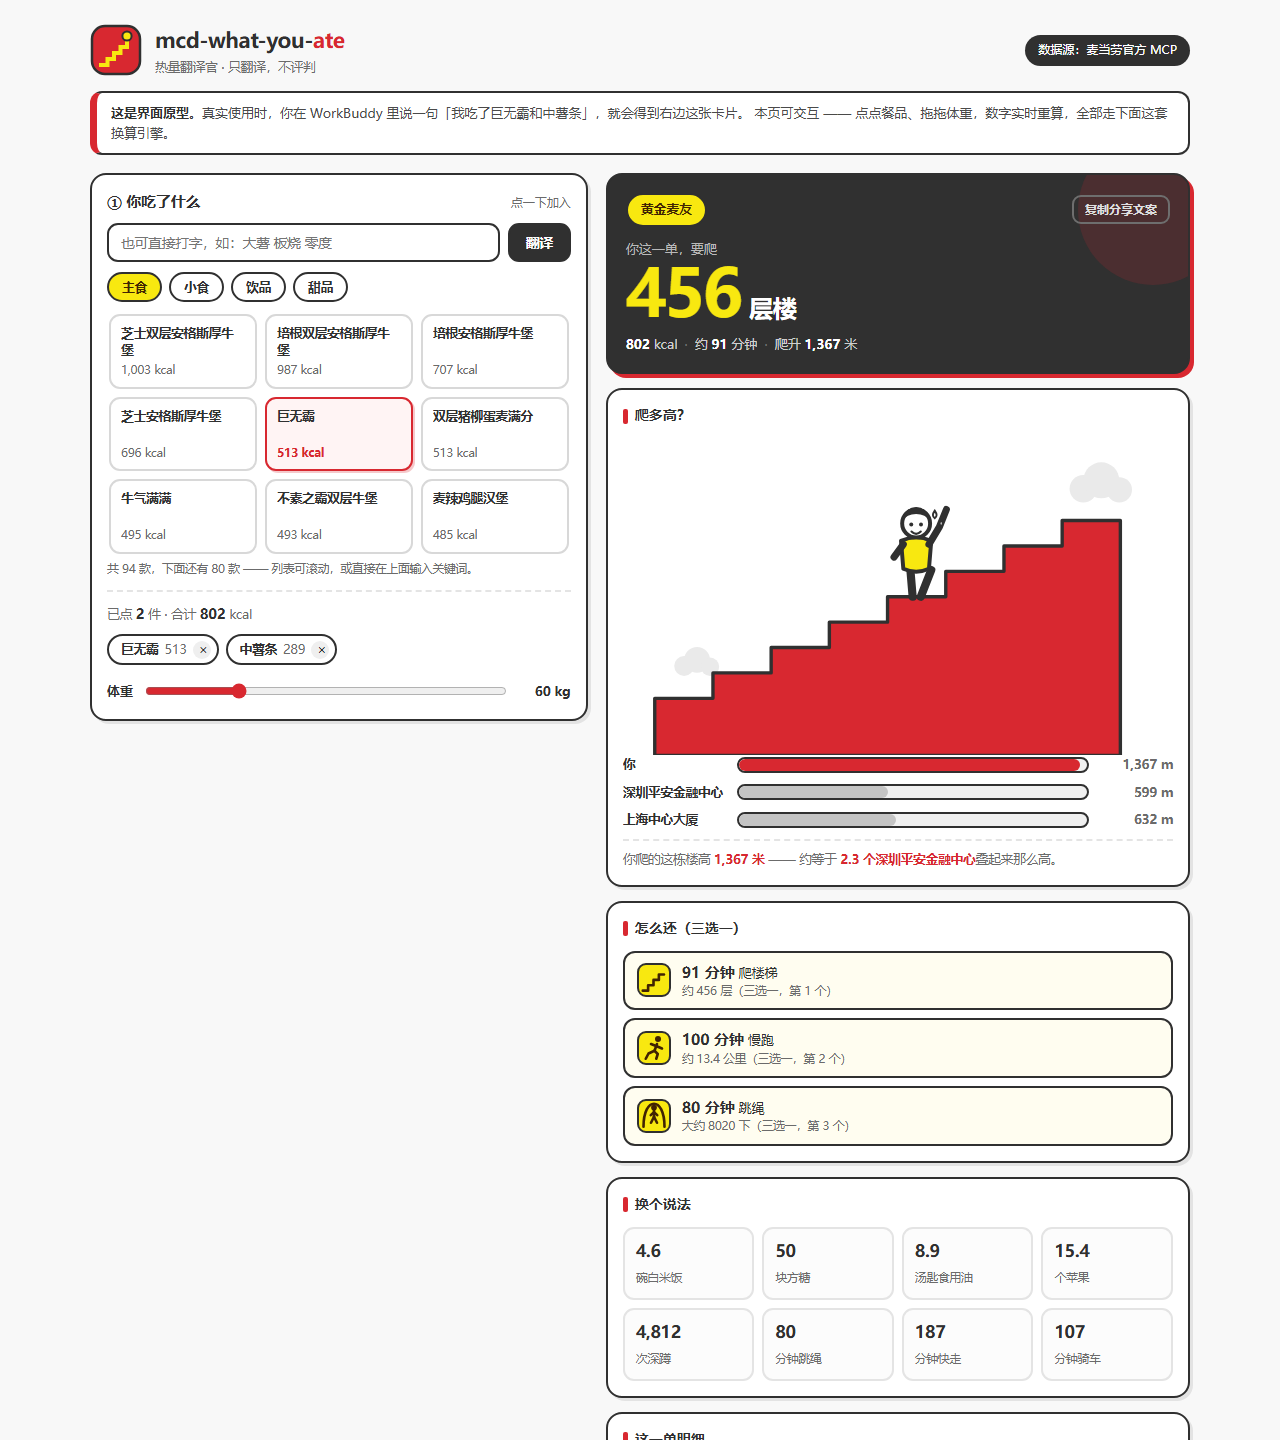
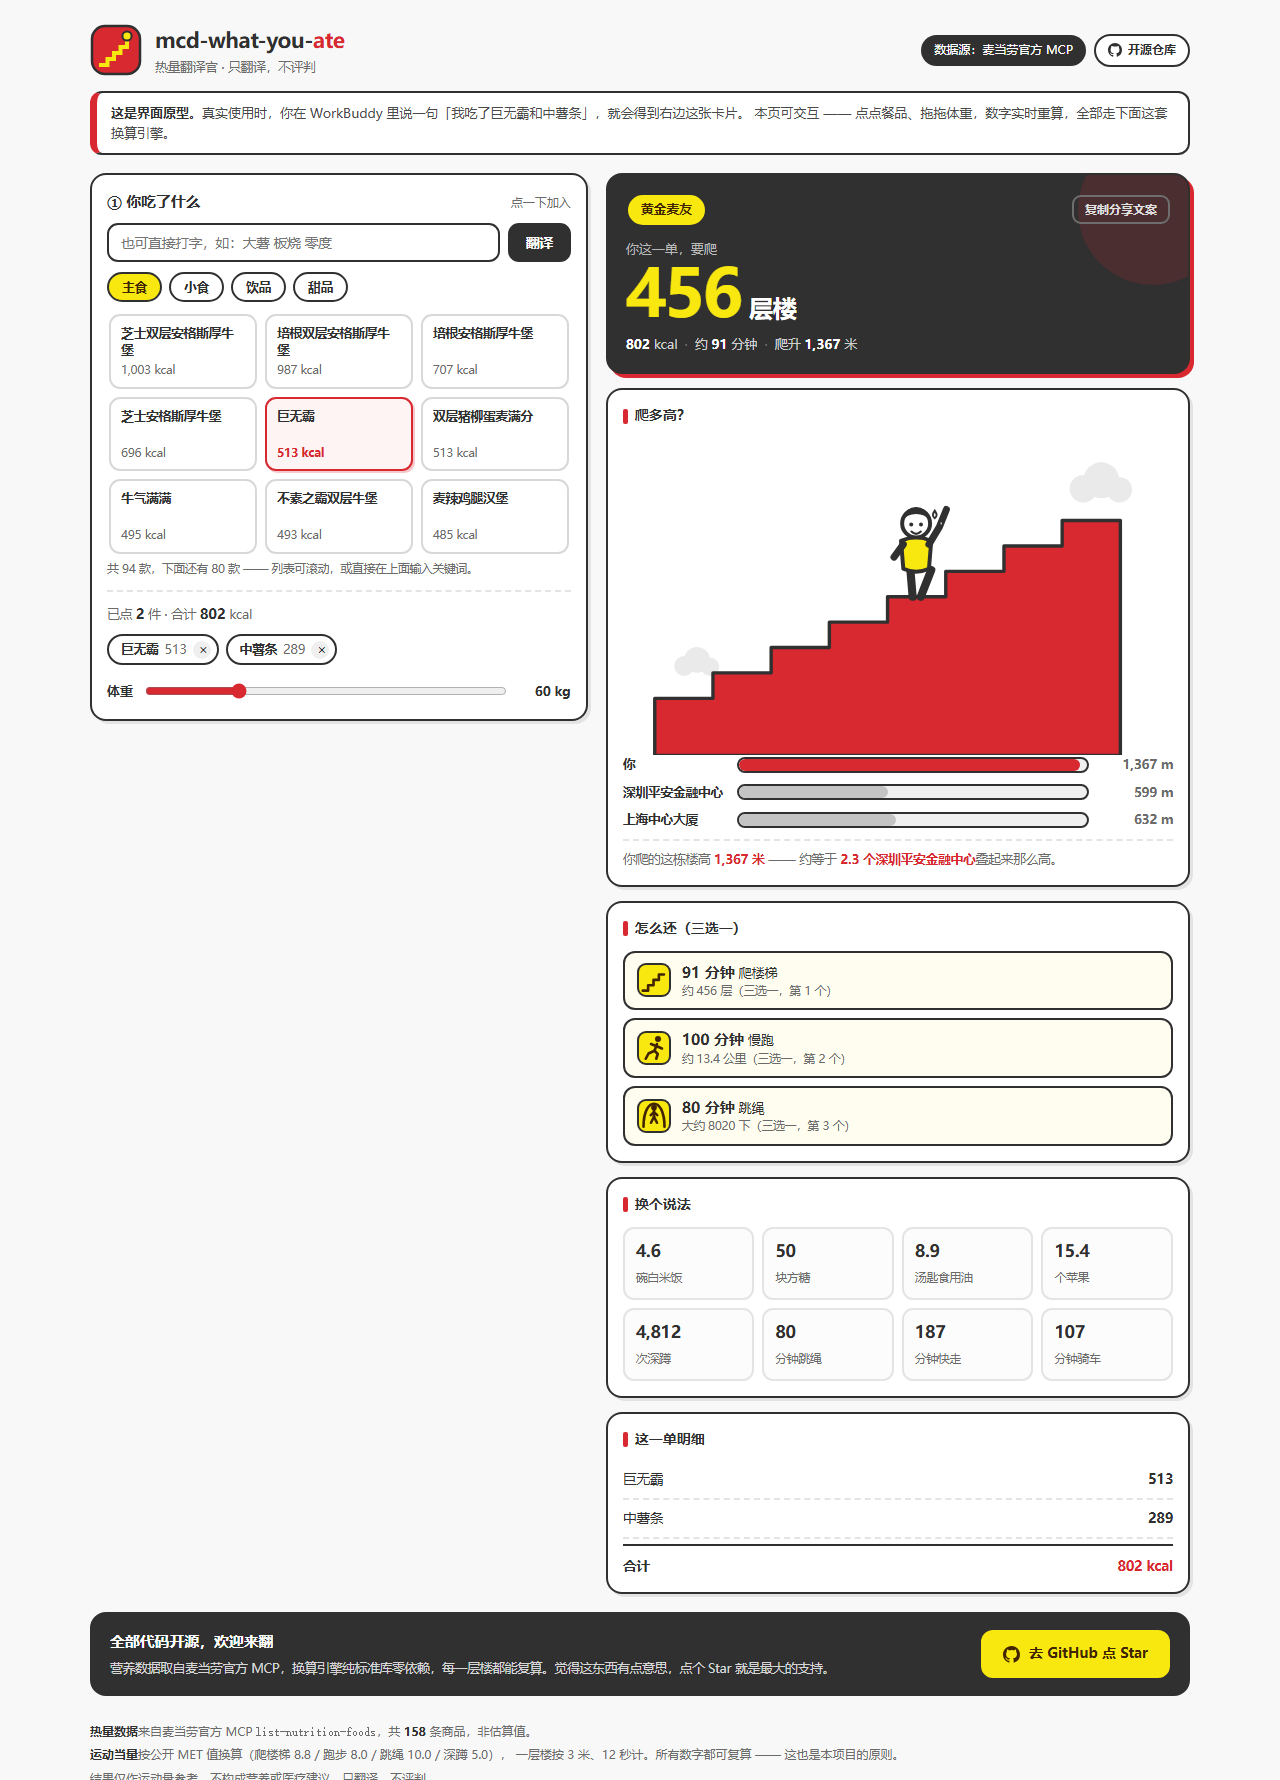
feat(demo): 补上转化出口 —— 页头仓库入口 + 底部 Star 引导
index.html 此前一个链接都没有：路人点开玩爽了，无处可去，既到不了
仓库也不知道项目是开源的 —— 转化链路是断的。对参赛作品来说，这是
"体验做到了、出口没做"的浪费。

- 页头右上新增「开源仓库」胶囊按钮（内联 SVG GitHub 图标）
- 底部新增 Star 引导区块（深墨黑底 + 亮黄按钮，黄底配 #412402 深褐字，
  对比度 16.5:1 —— 遵守本项目"品牌黄底绝不配白字"的约束）
- README 顶部与末尾各加 Star 引导
- 修正 README 3 处过期测试项数（24→28 跨语言、12→13 自检）。
  过程中差点把「5 项基准」推成「6 项」，核对 --doctor 实际输出后改回 ——
  文档数字必须跑命令核对，不能推算

验证：--doctor 13/13 · verify_demo.js 28/28 · CDP 交互 22/22 ·
375px 实测 cw=sw=375，新增 CTA 未撑破页面。
截图重出：desktop 1280×1780（含 CTA）/ mobile 375×900@2x。

Changed region(s): [[0.0625, 0.0, 0.9375, 1.0]]

diff --git a/index.html b/index.html
@@ -34,6 +34,34 @@ body{
 .hero h1 span{color:var(--red)}
 .hero .sub{margin:1px 0 0;font-size:12.5px;color:var(--muted)}
 .tagline{background:var(--ink);color:#fff;font-size:12px;padding:6px 13px;border-radius:999px;white-space:nowrap}
+.hero-r{display:flex;align-items:center;gap:8px;flex-wrap:wrap}
+.gh-link{
+  display:inline-flex;align-items:center;gap:6px;border:2px solid var(--ink);
+  border-radius:999px;padding:5px 12px;font-size:12px;font-weight:700;
+  color:var(--ink);background:#fff;text-decoration:none;white-space:nowrap;
+  transition:background .15s;
+}
+.gh-link:hover{background:var(--yellow)}
+.gh-link svg{display:block;flex:0 0 auto}
+
+/* ---------- 底部 Star 引导（转化出口） ---------- */
+.cta{
+  margin-top:18px;background:var(--ink);color:#fff;border:2px solid var(--ink);
+  border-radius:var(--r);padding:16px 18px;
+  display:flex;align-items:center;justify-content:space-between;gap:16px;flex-wrap:wrap;
+}
+.cta-txt{min-width:220px;flex:1}
+.cta-txt h2{margin:0 0 4px;font-size:15px;font-weight:800;letter-spacing:-.01em}
+.cta-txt p{margin:0;font-size:12.5px;color:#D6D6D6;line-height:1.6}
+.cta-btn{
+  display:inline-flex;align-items:center;gap:9px;flex:0 0 auto;
+  background:var(--yellow);color:var(--brown);border:2px solid var(--yellow);
+  border-radius:12px;padding:11px 20px;font-size:14px;font-weight:800;
+  text-decoration:none;white-space:nowrap;transition:transform .08s;
+}
+.cta-btn:hover{transform:translateY(-2px)}
+.cta-btn:active{transform:translateY(1px)}
+.cta-btn svg{display:block;flex:0 0 auto}
 .note{
   background:#fff;border:2px solid var(--ink);border-left:7px solid var(--red);
   border-radius:12px;padding:10px 14px;font-size:13px;color:#4A4A4A;margin:0 0 18px;
@@ -223,7 +251,13 @@ body{
         <p class="sub">热量翻译官 · 只翻译，不评判</p>
       </div>
     </div>
-    <div class="tagline">数据源：麦当劳官方 MCP</div>
+    <div class="hero-r">
+      <span class="tagline">数据源：麦当劳官方 MCP</span>
+      <a class="gh-link" href="https://github.com/Moveup888/mcd-what-you-ate" target="_blank" rel="noopener">
+        <svg width="14" height="14" viewBox="0 0 16 16" fill="currentColor" aria-hidden="true"><path d="M8 0C3.58 0 0 3.58 0 8c0 3.54 2.29 6.53 5.47 7.59.4.07.55-.17.55-.38 0-.19-.01-.82-.01-1.49-2.01.37-2.53-.49-2.69-.94-.09-.23-.48-.94-.82-1.13-.28-.15-.68-.52-.01-.53.63-.01 1.08.58 1.23.82.72 1.21 1.87.87 2.33.66.07-.52.28-.87.51-1.07-1.78-.2-3.64-.89-3.64-3.95 0-.87.31-1.59.82-2.15-.08-.2-.36-1.02.08-2.12 0 0 .67-.21 2.2.82a7.4 7.4 0 0 1 2-.27c.68 0 1.36.09 2 .27 1.53-1.04 2.2-.82 2.2-.82.44 1.1.16 1.92.08 2.12.51.56.82 1.27.82 2.15 0 3.07-1.87 3.75-3.65 3.95.29.25.54.73.54 1.48 0 1.07-.01 1.93-.01 2.2 0 .21.15.46.55.38A8.01 8.01 0 0 0 16 8c0-4.42-3.58-8-8-8z"/></svg>
+        开源仓库
+      </a>
+    </div>
   </header>
 
   <p class="note">
@@ -298,6 +332,17 @@ body{
     </section>
 
   </div>
+
+  <section class="cta">
+    <div class="cta-txt">
+      <h2>全部代码开源，欢迎来翻</h2>
+      <p>营养数据取自麦当劳官方 MCP，换算引擎纯标准库零依赖，每一层楼都能复算。觉得这东西有点意思，点个 Star 就是最大的支持。</p>
+    </div>
+    <a class="cta-btn" href="https://github.com/Moveup888/mcd-what-you-ate" target="_blank" rel="noopener">
+      <svg width="17" height="17" viewBox="0 0 16 16" fill="currentColor" aria-hidden="true"><path d="M8 0C3.58 0 0 3.58 0 8c0 3.54 2.29 6.53 5.47 7.59.4.07.55-.17.55-.38 0-.19-.01-.82-.01-1.49-2.01.37-2.53-.49-2.69-.94-.09-.23-.48-.94-.82-1.13-.28-.15-.68-.52-.01-.53.63-.01 1.08.58 1.23.82.72 1.21 1.87.87 2.33.66.07-.52.28-.87.51-1.07-1.78-.2-3.64-.89-3.64-3.95 0-.87.31-1.59.82-2.15-.08-.2-.36-1.02.08-2.12 0 0 .67-.21 2.2.82a7.4 7.4 0 0 1 2-.27c.68 0 1.36.09 2 .27 1.53-1.04 2.2-.82 2.2-.82.44 1.1.16 1.92.08 2.12.51.56.82 1.27.82 2.15 0 3.07-1.87 3.75-3.65 3.95.29.25.54.73.54 1.48 0 1.07-.01 1.93-.01 2.2 0 .21.15.46.55.38A8.01 8.01 0 0 0 16 8c0-4.42-3.58-8-8-8z"/></svg>
+      去 GitHub 点 Star
+    </a>
+  </section>
 
   <footer class="foot">
     <p><b>热量数据</b>来自麦当劳官方 MCP <code>list-nutrition-foods</code>，共 <b id="dbCount">0</b> 条商品，非估算值。</p>

diff --git a/README.md b/README.md
@@ -10,6 +10,8 @@
 
 **🔗 [在线试玩](https://moveup888.github.io/mcd-what-you-ate/)** —— 不用安装、不用下载，点开就能用（内置 158 条官方营养库，离线可跑）
 
+**⭐ [点个 Star 支持](https://github.com/Moveup888/mcd-what-you-ate)** —— 这是「麦当劳 MCP 创新挑战」参赛作品，Star 数就是它的排名。
+
 ---
 
 ## 这是什么
@@ -63,7 +65,7 @@
 > Demo 存在的意义是让评委和用户**直接看见**产品长什么样 —— 而不是只能靠想象。
 >
 > 界面里的所有数字由 `index.html` 内嵌的 JS 引擎算出，与 `scripts/calorie_engine.py` 逐项对齐，
-> 用 `node scripts/verify_demo.js` 可以一键校验（24 项基准全绿才算通过）。
+> 用 `node scripts/verify_demo.js` 可以一键校验（28 项基准全绿才算通过）。
 
 
 ## 它不做什么
@@ -133,13 +135,13 @@ cp -r mcd-what-you-ate <你的项目>/.workbuddy/skills/
 # 能打印出账单即安装成功
 python scripts/calorie_engine.py 巨无霸 中薯条
 
-# 自检：数据一致性 + 边界安全 + 5 项基准防回归（12 项全绿才算完成）
+# 自检：数据一致性 + 边界安全 + 5 项基准防回归（13 项全绿才算完成）
 python scripts/calorie_engine.py --doctor
 
 # 对抗性压力测试：极端参数、空输入、畸形输入（退出码非 0 = 有问题）
 python scripts/stress_test.py
 
-# 跨语言一致性：Demo 内嵌的 JS 引擎 vs Python 引擎（24 项，需 node）
+# 跨语言一致性：Demo 内嵌的 JS 引擎 vs Python 引擎（28 项，需 node）
 node scripts/verify_demo.js
 ```
 
@@ -264,6 +266,20 @@ mcd-what-you-ate/
 
 - Python 3.8+
 - **无任何第三方依赖**（仅标准库）
+
+## 支持这个项目
+
+如果这个小东西让你笑了一下，或者让你第一次对「513 kcal」有了实感 ——
+
+**给仓库点个 ⭐ Star 就够了。**
+
+它是「麦当劳程序员创意开发大赛」的参赛作品，Star 数直接决定排名。你的一个星，比任何夸奖都实在。
+
+👉 **https://github.com/Moveup888/mcd-what-you-ate**
+
+想聊点别的也欢迎：
+- 提 Issue 说说你还想把什么食物翻译成「要爬多少层楼」
+- 用 `--json` 把换算引擎接进你自己的工具里（纯标准库，零依赖）
 
 ## 免责声明
 

diff --git a/CHANGELOG.md b/CHANGELOG.md
@@ -2,6 +2,39 @@
 
 本项目遵循语义化版本。所有日期为北京时间。
 
+## 1.4.1 — 2026-10-14
+
+### 新增
+**Demo 补上「玩完之后去哪」的出口。**
+
+此前 `index.html` 里**一个链接都没有** —— 路人点开、玩爽了、然后无处可去：
+既到不了仓库，也不知道这项目是开源的。**转化链路是断的**，
+对参赛作品来说这是最贵的一种浪费（体验做到了，出口没做）。
+
+- **页头右上**：新增「开源仓库」入口（内联 SVG GitHub 图标 + 链接，沿用胶囊按钮样式）
+- **页面底部**：新增 Star 引导区块（深墨黑底 + 亮黄按钮 —— 黄底配 `#412402` 深褐字，
+  对比度 16.5:1，符合本项目的配色约束：**品牌黄底绝不配白字**）
+- **README**：顶部与末尾各加一处 Star 引导
+
+### 修复
+README 里 **3 处过期的测试项数**（文档没跟上 1.3.0/1.4.0 的测试增项）：
+`24 项` → `28 项`（跨语言一致性）、`12 项` → `13 项`（引擎自检）。
+> 修的时候差点又造一个新错：顺手把「5 项基准」推成了「6 项」，
+> 核对 `--doctor` 实际输出后确认仍是 **5 项**（巨无霸 / 双层安格斯 / 大薯 / 零度 / 合计）。
+> **文档里的数字必须去跑一遍命令核对，不能靠推算。**
+
+### 验证
+| 层面 | 结果 |
+|---|---|
+| `--doctor` | **13 / 13** |
+| `verify_demo.js` | **28 / 28** |
+| 浏览器交互（CDP） | **22 / 22** |
+| 窄屏布局 | 375px 实测 `cw=sw=375`，新增 CTA **未撑破页面** |
+
+截图按新参数重出：desktop `1280×1780`（含新增 CTA）/ mobile `375×900@2x`（核心区）。
+
+---
+
 ## 1.4.0 — 2026-10-13
 
 ### 修复
